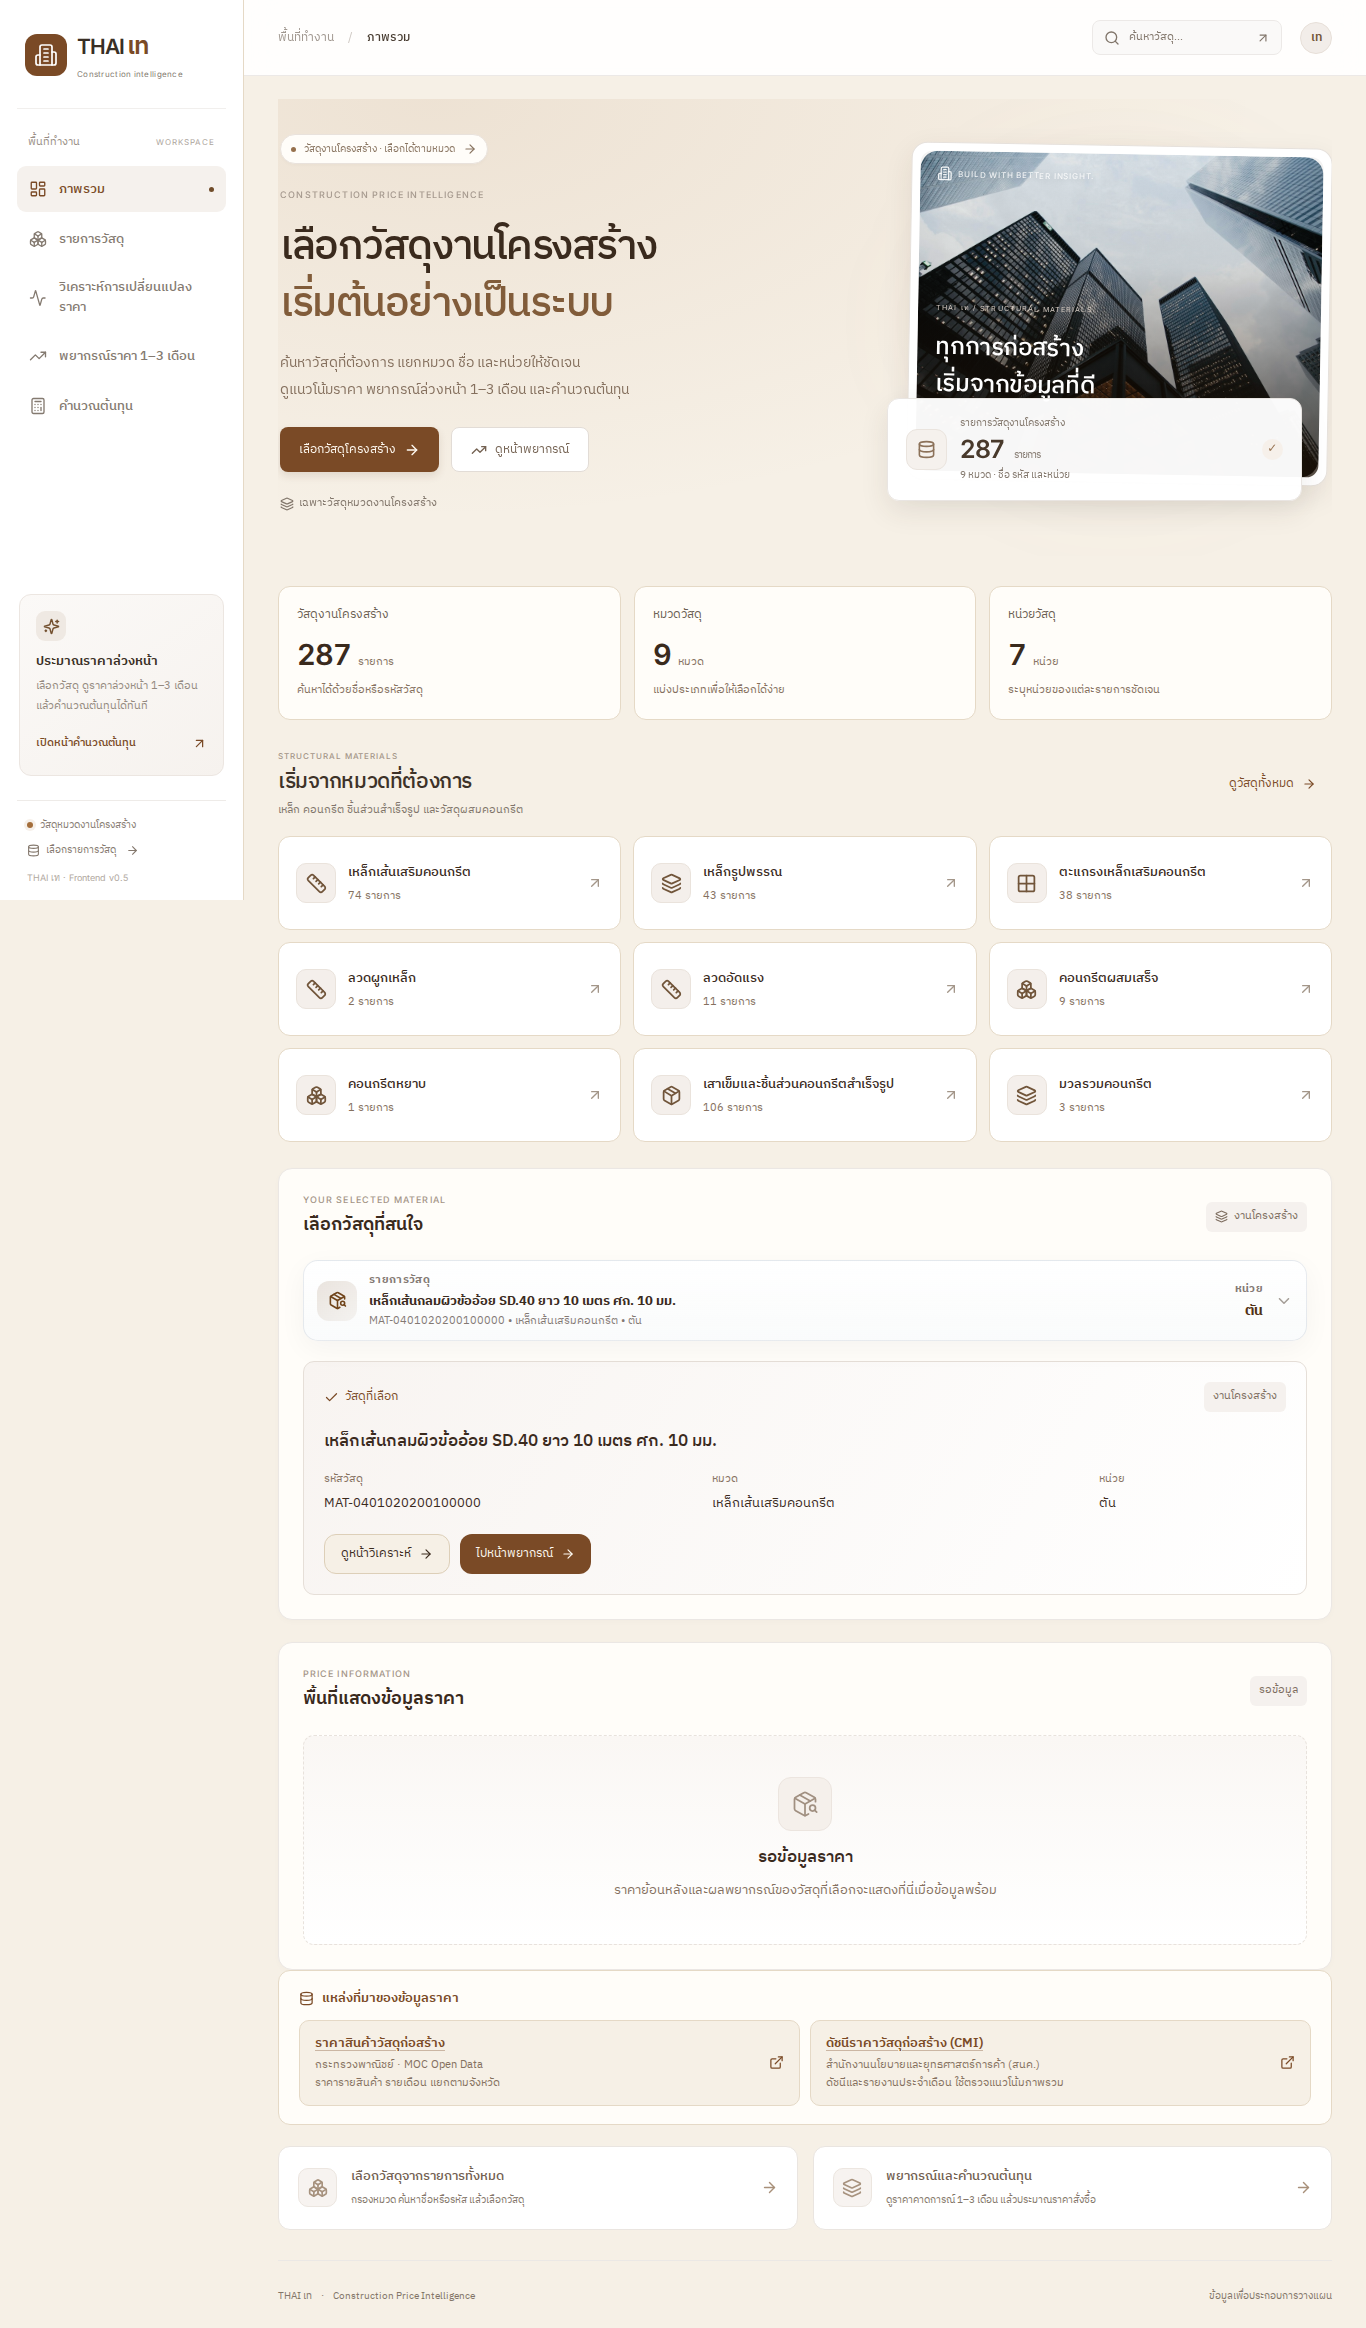
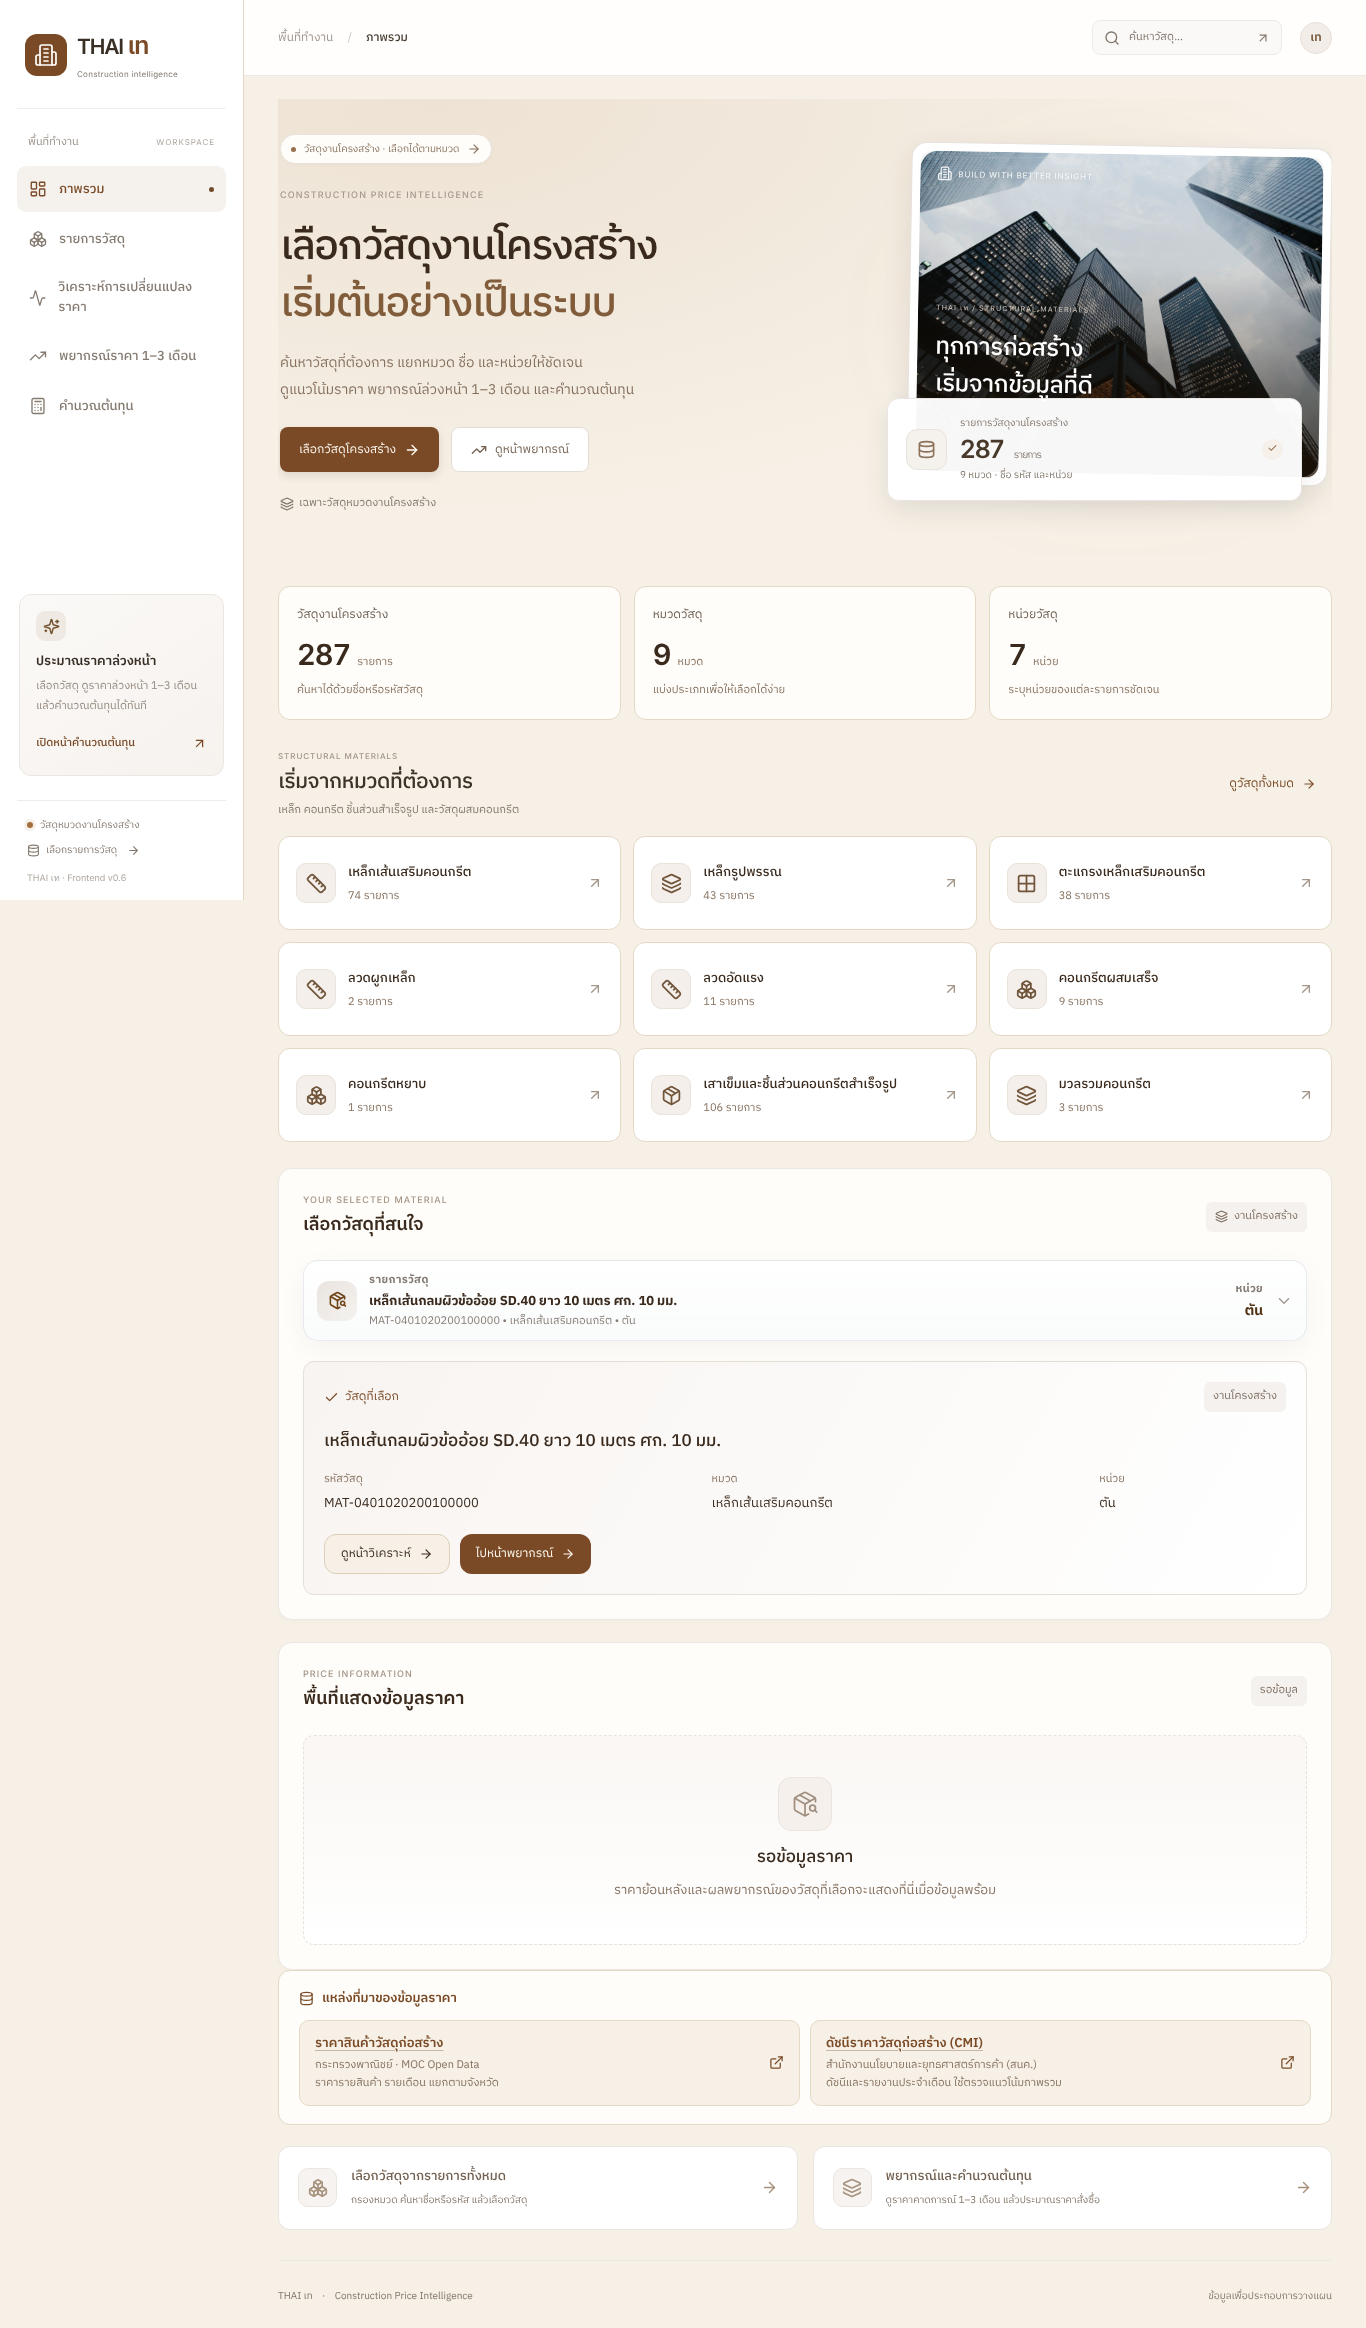
Refresh preview screenshots and verification results for v0.6
Claude-Session: https://claude.ai/code/session_01PZGcVyYfXFNvLBhXnb2rxj

diff --git a/preview/verification.md b/preview/verification.md
@@ -1,20 +1,29 @@
-# ผลตรวจ THAI เท Frontend v0.5
+# ผลตรวจ THAI เท Frontend v0.6
 
-- npm run build: ผ่าน TypeScript และ Vite build
-- Catalog ใช้เฉพาะชื่อ รหัส หน่วย หมวด และ family code ของวัสดุโครงสร้าง 287 รายการใน 9 หมวด
-- ตรวจรายการ ชื่อ หน่วย และหมวดตรงกับ metadata ของรายการ included และไม่รวม 5 รายการที่พักทบทวนขอบเขต
-- ไม่มีราคา วันที่ราคา ประวัติราคา หรือ ML readiness อยู่ใน catalog ที่โหลดบนเว็บ
-- ทดสอบเข้าถึงรายการผ่านหมวดและ pagination ได้ครบ 287 รายการ
-- กดหมวดจาก Overview เปิดหน้า catalog ที่กรองหมวดนั้นถูกต้อง
-- มุมมองทุกหมวดแบ่งหัวข้อชัดเจน ค้นหาชื่อ/รหัส กรองหมวด แบ่งหน้า เลือก และล้างตัวกรองได้
-- ตัวเลือกวัสดุแสดงหน่วยแทนราคา รองรับค้นหาและเลือกด้วยคีย์บอร์ด
-- วัสดุที่เลือกตามไปหน้าวิเคราะห์และพยากรณ์
-- หน้าราคา/กราฟเป็น placeholder และหน้าพยากรณ์มีการ์ด 1/2/3 เดือน โดยไม่มีตัวเลขราคาหรือผลโมเดล
-- ทุกหน้าเปิดที่ 1440, 768, 390 และ 320 px ไม่มี document overflow
-- ตรวจ MaterialPicker บนจอ 320 px รวมเมนูมือถือ Escape และ browser Back: ผ่าน
-- Browser ไม่พบ JS / HTTP error ไม่มี request ไปบริการภายนอก และไม่มี fetch / XHR เพื่อเรียก API
-- ตรวจภาพ desktop, mobile และ catalog แล้ว
+- `npm run build`: ผ่าน TypeScript และ Vite build
+- Catalog: วัสดุโครงสร้าง 287 รายการใน 9 หมวด ไม่มีฟิลด์ราคาใน catalog (`frontend-catalog-results.json`)
+- ข้อมูลราคาในหน้าวิเคราะห์ พยากรณ์ และคำนวณต้นทุนเป็นข้อมูลตัวอย่าง (Demo) จาก `priceService.ts` และมีแถบเตือนในหน้า
+- ไม่เปิดหน้าล้นแนวนอนทุกหน้า (หน้าแรก ภาพรวม รายการวัสดุ วิเคราะห์ พยากรณ์ คำนวณต้นทุน) ที่ 1440, 1024, 768, 390 และ 320 px
+- Browser ไม่พบ JS error และไม่มี request ไปบริการภายนอก
+- หน้าแรก: เมนูไม่ทับกันทุกขนาดจอ เมนูมือถือเปิด/ปิดได้และปิดด้วย Esc ปุ่มและลิงก์ไปหน้าที่ถูกต้อง
+- กดหมวดจากภาพรวมเปิดรายการวัสดุที่กรองหมวดนั้น
+- วัสดุที่เลือกตามไปหน้าพยากรณ์ → วิเคราะห์ → คำนวณต้นทุน และรายการในใบประมาณราคาอยู่ครบเมื่อเปลี่ยนหน้า
+- Sidebar มือถือเปิดได้และปิดด้วย Esc, กดโลโก้กลับหน้าแรก, hash ที่ไม่รู้จักเปิดหน้าภาพรวม
+- CSS cleanup (ลบ declaration ที่ถูกทับและ rule ที่ไม่มี class ในโค้ด): ภาพหน้าจอ 33 ภาพ (6 หน้า × 5 ขนาดจอ + sidebar มือถือ) ก่อนและหลังแก้ตรงกันทุก pixel
 
-การตรวจนี้เป็นของ frontend และ catalog ไม่ใช่ผลฝึก/ประเมิน ML หรือ backend deployment
+รายการตรวจทั้งหมด: `frontend-ui-results.json`
 
-หลักฐานเพิ่มเติม: frontend-ui-results.json และ frontend-catalog-results.json
+ภาพตัวอย่าง (ถ่ายจาก build v0.6):
+
+| ไฟล์ | หน้า | ความกว้าง |
+|---|---|---|
+| `landing-desktop.png` / `landing-mobile.png` | หน้าแรก | 1440 / 390 |
+| `desktop.png` / `overview.png` | ภาพรวม | 1440 / 1366 |
+| `tablet.png` / `mobile.png` | ภาพรวม | 768 / 390 |
+| `materials.png` | รายการวัสดุ | 1440 |
+| `analysis.png` | วิเคราะห์ราคา | 1366 |
+| `forecast.png` | พยากรณ์ 1–3 เดือน | 1366 |
+| `cost.png` / `cost-mobile.png` | คำนวณต้นทุน | 1366 / 390 |
+| `intro-splash.png` | หน้าต้อนรับ | 1280 × 800 |
+
+การตรวจนี้เป็นของ frontend ไม่ใช่ผลฝึก/ประเมิน ML หรือ backend deployment
